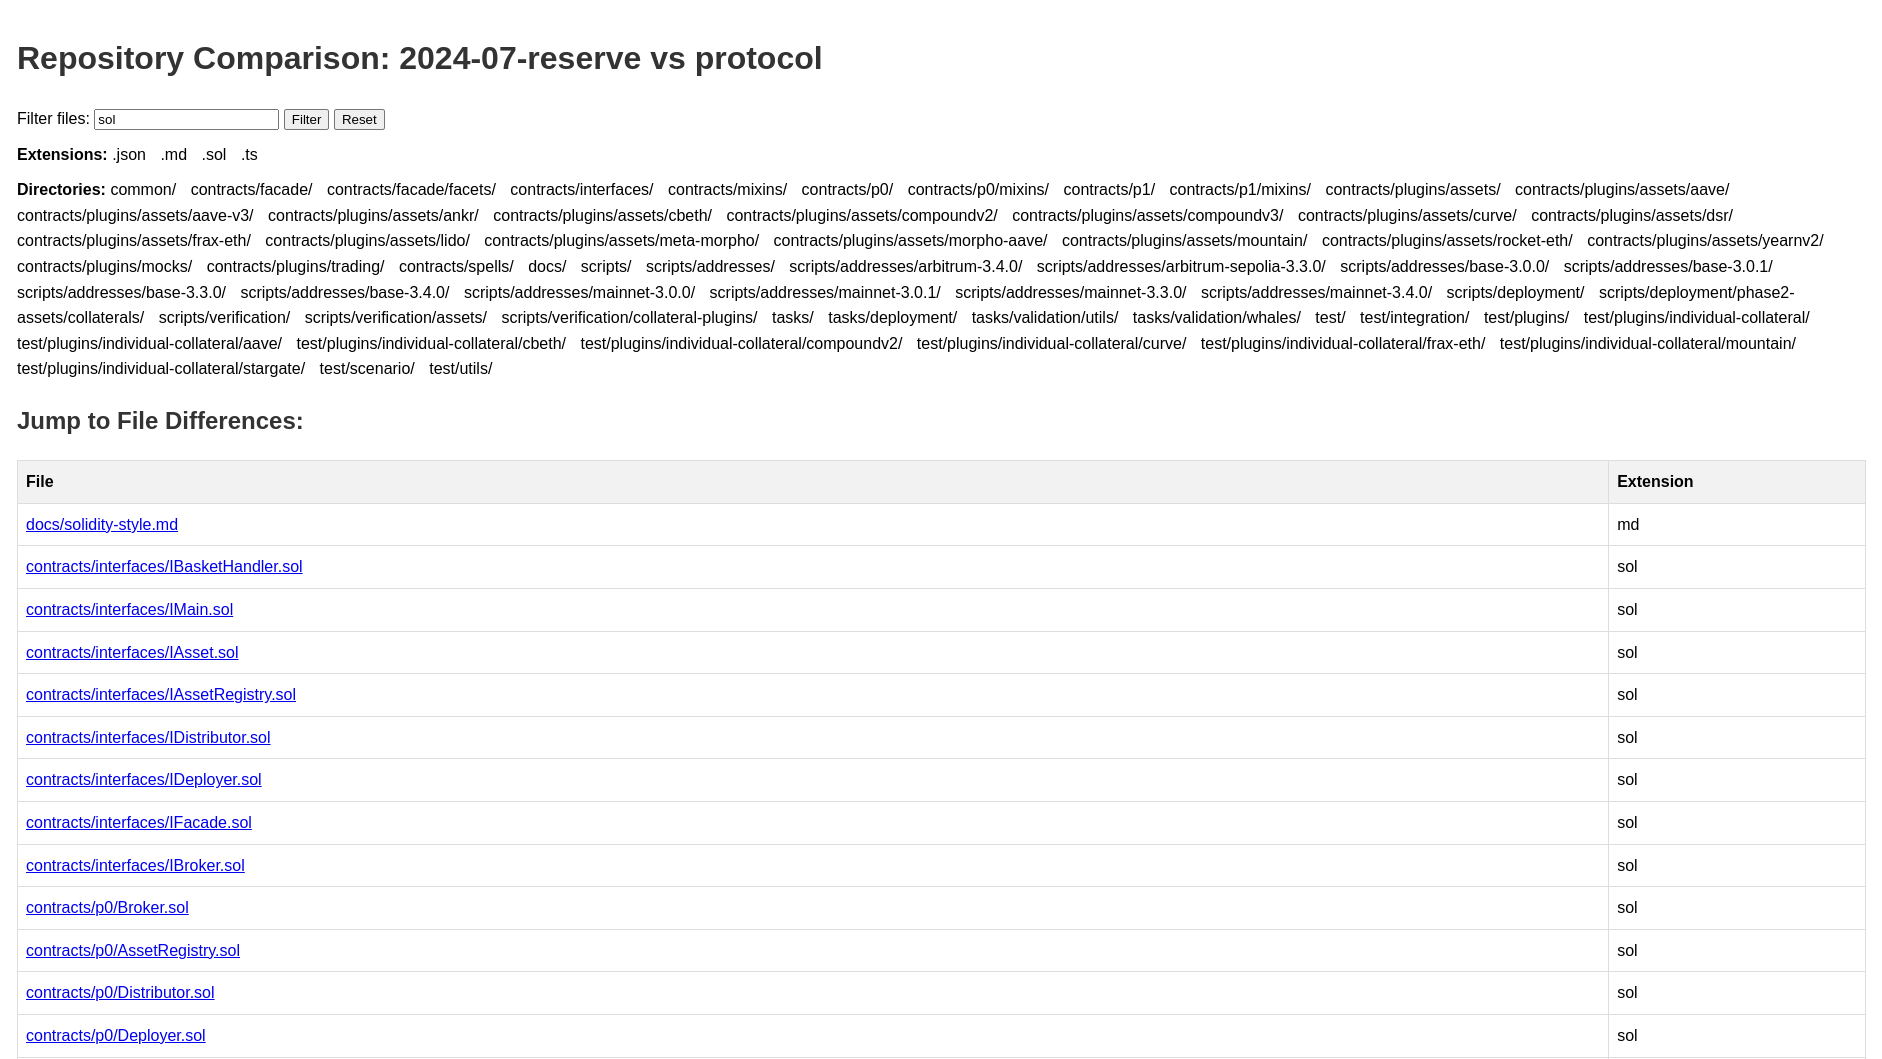
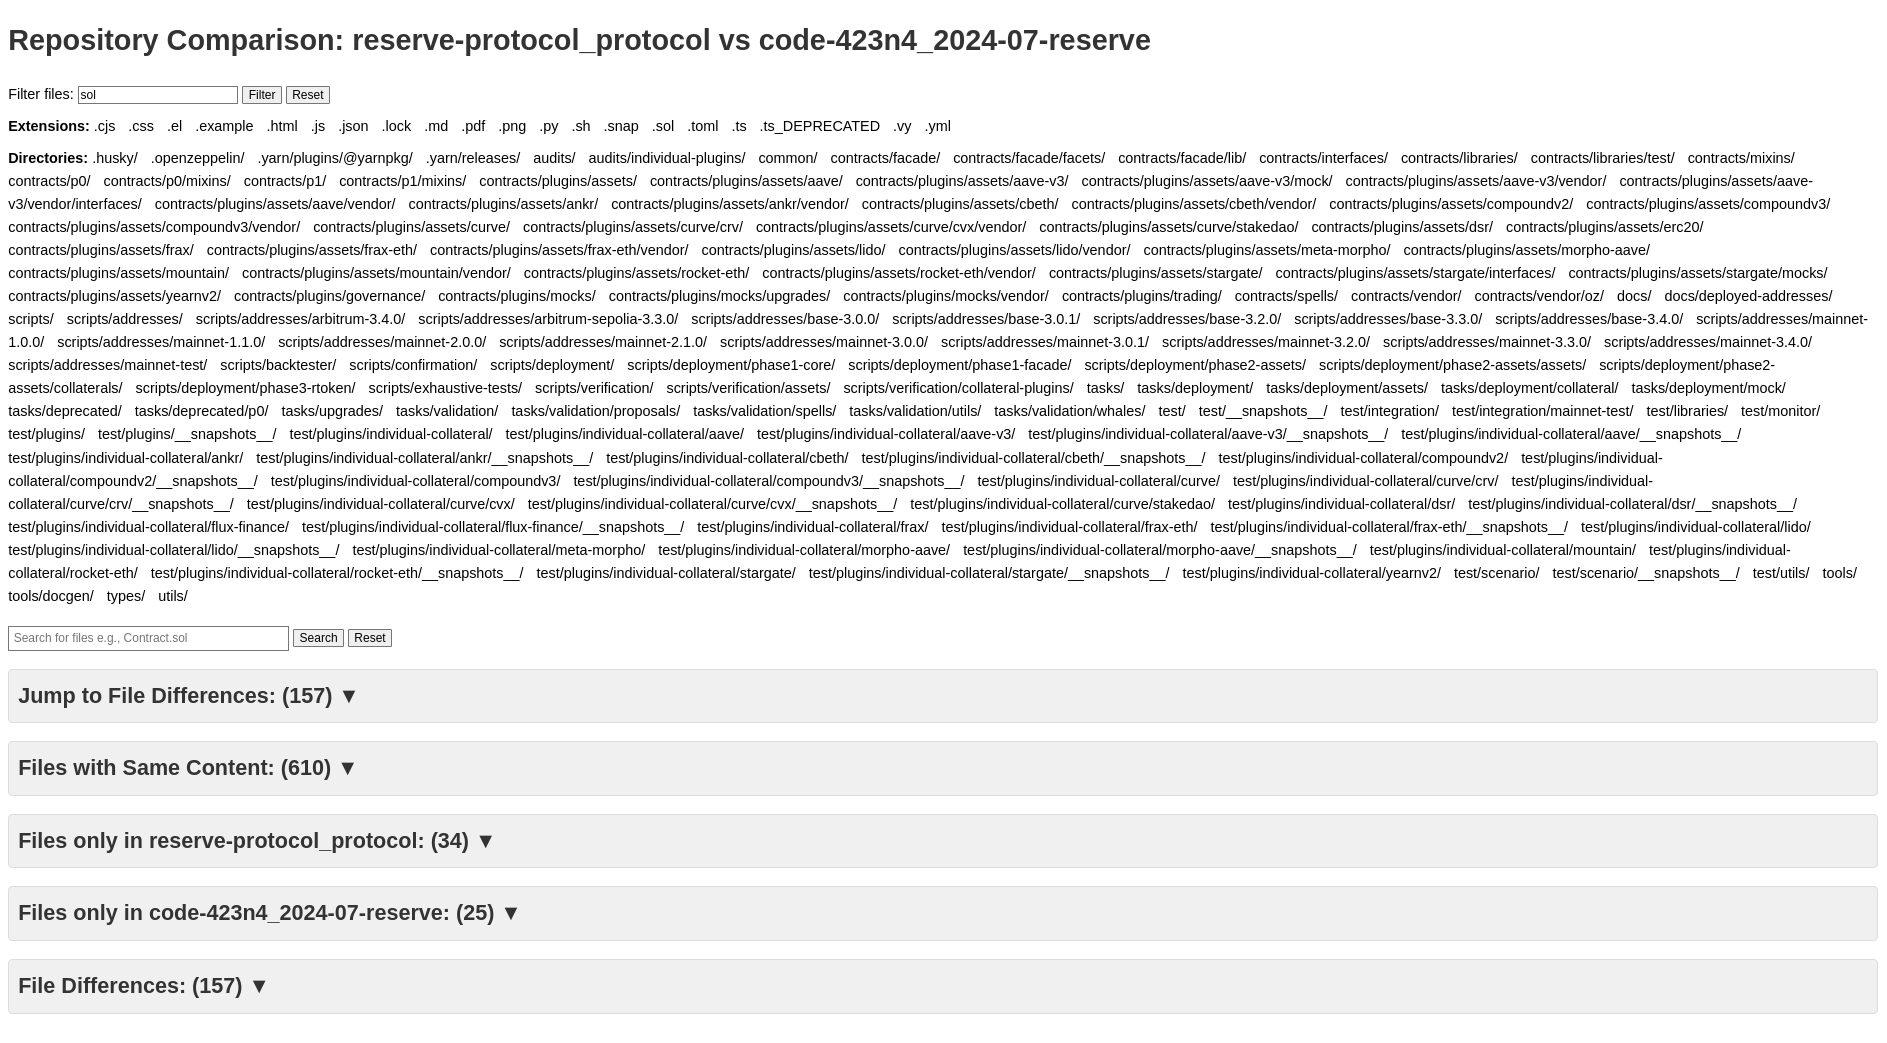
README

Changed region(s): [[0.0, 0.0307, 0.9862, 1.0]]

diff --git a/README.md b/README.md
@@ -1,6 +1,6 @@
 # Audit-Compare
 
-Audit-Compare allows you to compare any two remote GitHub repositories for differences. The results are presented in an output HTML file, with options to filter by extensions and directories.
+Audit-Compare allows you to compare any two remote GitHub repositories for differences. The results are presented in an output HTML file, with options to filter by extensions and directories. Additionally, basic search functionality across the data is provided. 
 
 ## Installation
 
@@ -22,6 +22,10 @@ python compare.py <repo1> <repo2>
 Alternatively, you can run the script and enter the repository URLs when prompted:
 ```sh
 python compare.py
+```
+Optionally, you can use `--deep` flag to compare not only matching filepaths but filenames individually
+```sh
+python compare.py --deep
 ```
 
 ## Output
